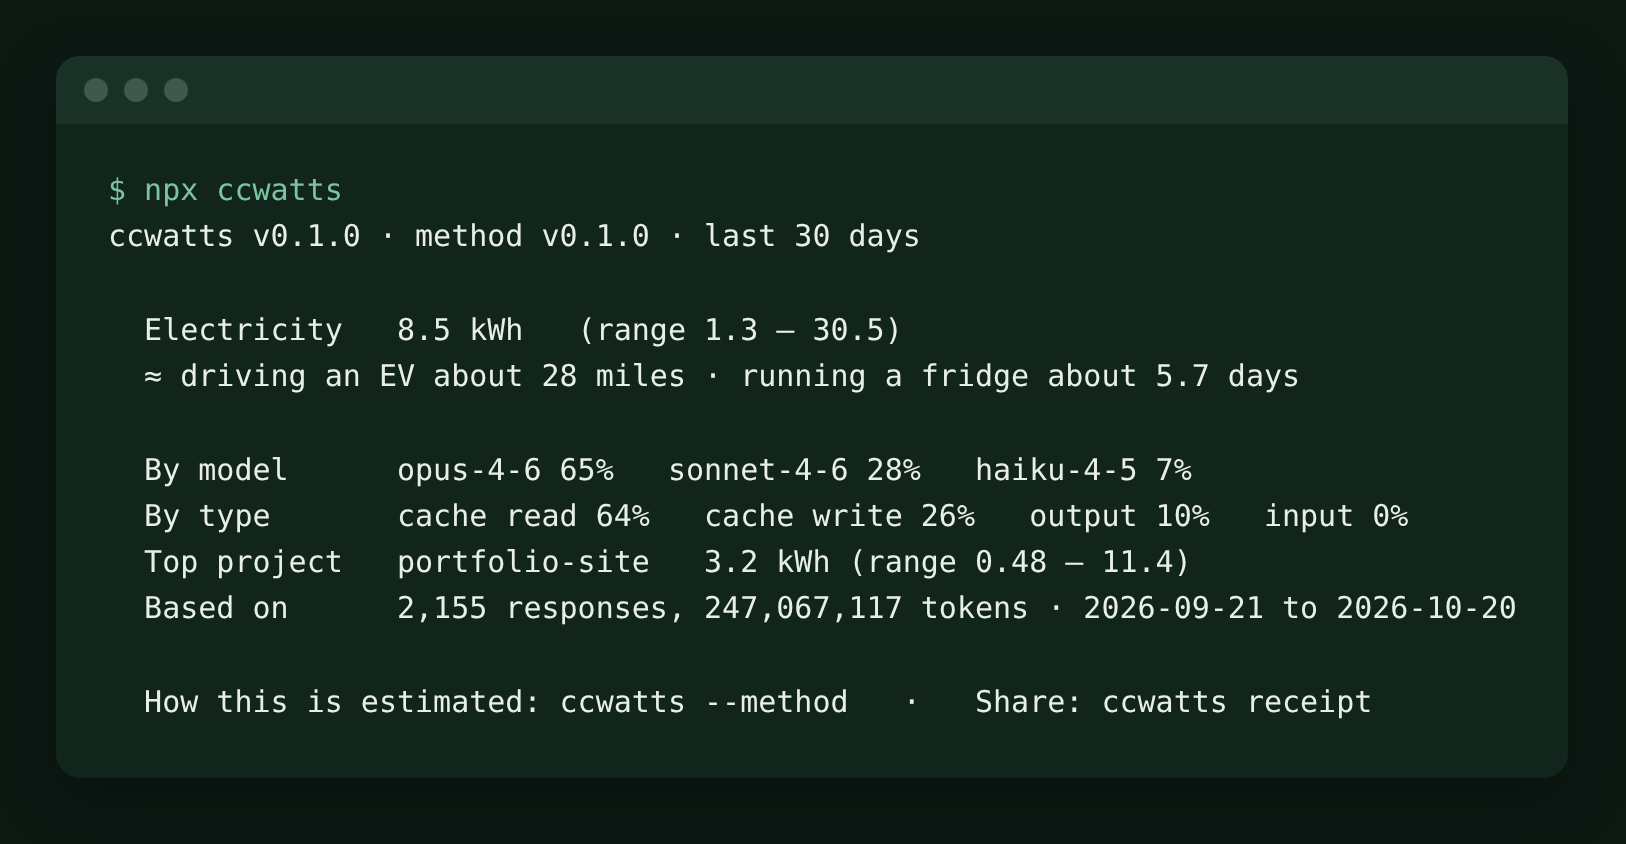
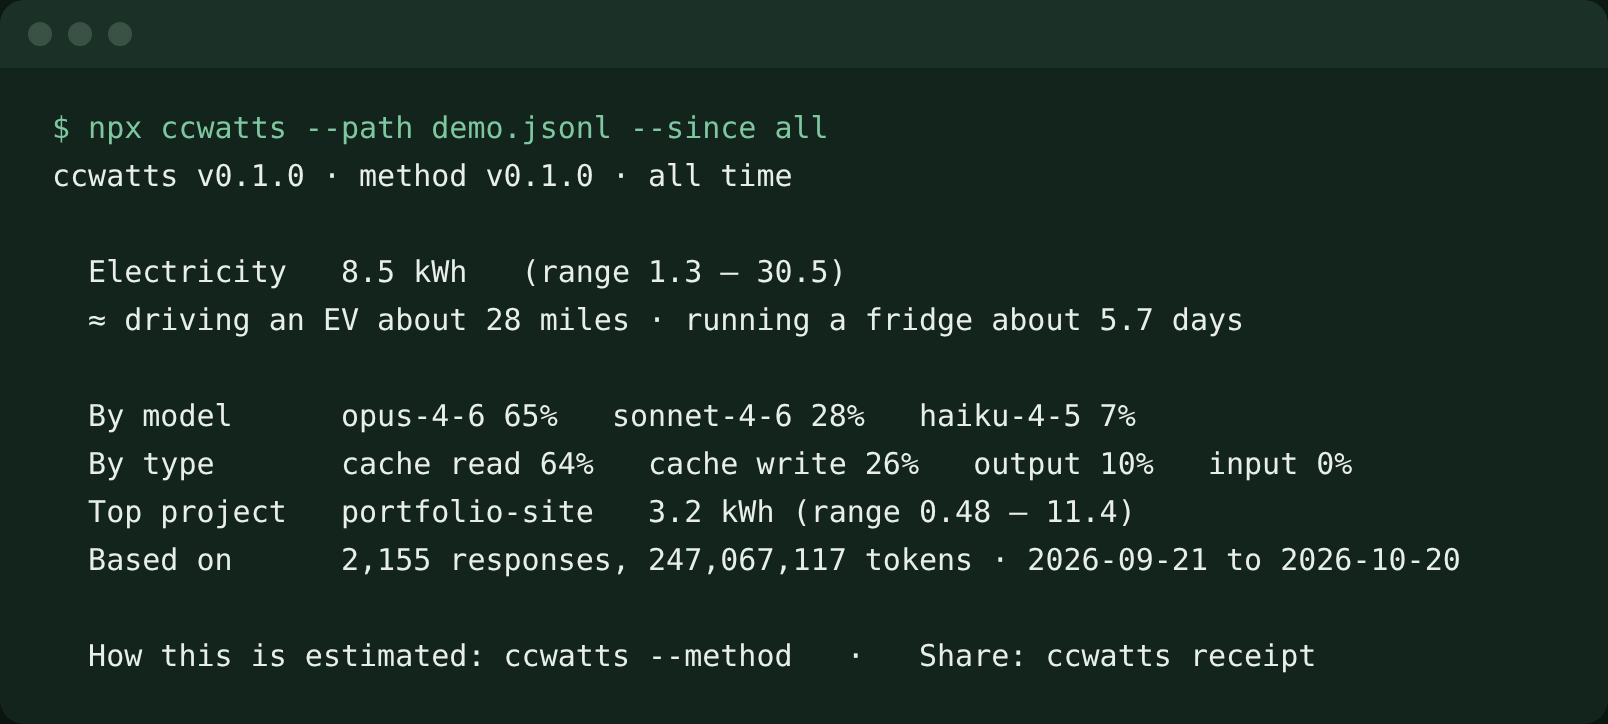
M2.2: README opens with a terminal GIF of the real CLI on demo data
scripts/make-readme-gif.mjs records docs/images/cli-demo.gif from the CLI's
actual output on the synthetic fixture (Playwright + ffmpeg, run by hand) and
refreshes the still cli-summary.png. README test checks the GIF is linked.

Claude-Session: https://claude.ai/code/session_01LvKamuVZtTCkcLRT5ptMVS

diff --git a/packages/web/test/readme.test.ts b/packages/web/test/readme.test.ts
@@ -1,4 +1,4 @@
-import { readFileSync } from "node:fs";
+import { existsSync, readFileSync } from "node:fs";
 import { describe, expect, it } from "vitest";
 import { PLAYGROUND_URL } from "@ccwatts/core";
 
@@ -18,5 +18,10 @@ describe("README tells the same story as the playground (recruiter-ready RR-7, R
   it("shows the playground on sample data, not a dashboard that reads as real history", () => {
     expect(readme).not.toContain("docs/images/dashboard.png");
     expect(readme).toContain("docs/images/playground-laptop.png");
+  });
+
+  it("opens with the terminal recording, and the file is there (M2.2)", () => {
+    expect(readme.split("\n").slice(0, 10).join("\n")).toContain("docs/images/cli-demo.gif");
+    expect(existsSync(new URL("../../../docs/images/cli-demo.gif", import.meta.url))).toBe(true);
   });
 });

diff --git a/HANDOFF.md b/HANDOFF.md
@@ -30,6 +30,7 @@ _Updated 2026-10-21._
 - **Demo data:** the playground opens on labeled synthetic sample data. Visitors can pick their own `.jsonl` files, which are parsed in the browser and never uploaded.
 - **Studio-wide status** (portfolio, domain, every demo, what's waiting on Chase): https://github.com/holroydchase-afk/pm-tools/blob/main/STUDIO-STATUS.md
 - 2026-10-21: the portfolio home page lists ccwatts under "Since Jan 2026: independent product work" with a "Live playground" tag.
+- 2026-10-22: README's top image is now a terminal GIF (`docs/images/cli-demo.gif`); `cli-summary.png` was re-shot from the same run if the portfolio wants a still.
 - 2026-10-22: playground gains an H1 ("How much electricity does your AI coding use?"), a lede, and a "← Chase Holroyd's portfolio" link to https://chaseholroyd.com/ccwatts.html. Portfolio fix for `npx ccwatts` (RR-2) sent as an INTAKE block for Product Studio.
 - 2026-10-22: README now links the live playground near the top, and its screenshots show the current playground on sample data (new H1 and back link). If the portfolio reuses README images, use `docs/images/playground-laptop.png` / `playground-phone.png`.
 - **Keep in sync:** when a change here alters what the portfolio page or demo shows (features, numbers, screenshots, privacy claims), tell the portfolio thread ("Portfolio research and upgrade plan") or update the page in `holroydchase-afk.github.io` (`tools/build.py`). Any portfolio change that touches this product adds a dated line here.
@@ -37,6 +38,7 @@ _Updated 2026-10-21._
 ## Done
 - 2026-10-22: PR #18 (M2.2 prep, CLI installable) merged after a main merge; 64 tests, typecheck and build pass, and a packed tarball installs and runs in an empty project with an empty HOME.
 - 2026-10-22: Recruiter-ready stack merged to main in order (#22 to #29, merge commits; tests and typecheck passed at every step and on main, 62 tests). Stale PR #2 (old CLAUDE.md rules) closed. Pages deploy of #29 started 18:30 UTC.
+- 2026-10-22: M2.2 README GIF: the README now opens with `docs/images/cli-demo.gif`, an 8-second terminal recording of the real CLI on the demo fixture (`npx ccwatts --path demo.jsonl --since all`). `scripts/make-readme-gif.mjs` re-records it (Playwright + ffmpeg, run by hand) and refreshes the still `docs/images/cli-summary.png` (no longer in the README; kept for the portfolio). `readme.test.ts` checks the GIF is linked near the top and exists.
 - 2026-10-22: Round 2 (RR-15 to RR-19): lede follows the data source, post says "I estimated" and only calls a 50%+ cache share a surprise, ranges pick kWh from the high bound, method labels explained, and `docs/images/receipt-sample.png` is now the labeled sample card (new `scripts/make-readme-images.mjs` re-shoots all three README playground images).
 - 2026-10-22: RR-7, RR-14: README links the live playground in its second paragraph, says `npx ccwatts` works once it's on npm, and its screenshots are the current playground on sample data (`docs/images/playground-laptop.png` replaces `dashboard.png`; `playground-phone.png` re-shot). `packages/web/test/readme.test.ts` guards all three.
 - 2026-10-22: RR-10, RR-11, RR-13: method-table source links name their site (e.g. theclimatebrink.com) and are 44px tall; under 600px the table becomes one card per parameter (no sideways scroll); phones see "On a phone? Claude Code keeps its logs on your computer…" under the pickers. All three are in `check:browser`.
@@ -69,7 +71,7 @@ All of M1.1 to M1.8 (old S1 to S7 plus the README; PRs #1, #3 to #10) and the Pa
 
 ## In progress
 - M2.2 ship prep (everything except the npm publish). Done so far: fixed a packaging bug (the CLI listed the unpublished `@ccwatts/core` as a runtime dependency, so `npm install` of the tarball failed with a 404; it is bundled anyway, so it is now a devDependency), added a test that the CLI has no runtime dependencies, and ran a clean install of `npm pack` output into an empty project with an empty HOME: install took under a second, the summary and `dashboard` worked on the demo fixture.
-- Still to do in M2.2: README install GIF, then `npm publish` once the name is final.
+- Still to do in M2.2: `npm publish` on Chase's go (needs his npm login). The README GIF is done (PR for branch `claude/project-thread-giqcv1`).
 
 ## Exact next step
 - Recruiter-ready stack is merged. Chase: paste the RR-2 INTAKE (in `docs/reviews/2026-10-22-recruiter-ready.md`) into Product Studio if not done.

diff --git a/README.md b/README.md
@@ -4,9 +4,9 @@
 
 **[Try it in your browser](https://chaseholroyd.com/ccwatts/)**: it opens on sample data, needs no install or sign-in, and your own logs never leave the page.
 
-![ccwatts summary in the terminal](docs/images/cli-summary.png)
+![ccwatts running in a terminal on sample data: one command prints an electricity range, an everyday comparison and the split by model, token type and project](docs/images/cli-demo.gif)
 
-> Screenshots use synthetic sample data (`fixtures/claude-code/demo.jsonl`), not anyone's real usage. The `npx ccwatts` command shown works once ccwatts is on npm; until then, run it from a clone (see [Try it](#try-it)).
+> Screenshots and the terminal recording use synthetic sample data (`fixtures/claude-code/demo.jsonl`), not anyone's real usage. The output is the real CLI's. The `npx ccwatts` command shown works once ccwatts is on npm; until then, run it from a clone (see [Try it](#try-it)).
 
 ## Why it exists
 
@@ -47,7 +47,7 @@ Output tokens cost the most. Fresh input costs less, and **cache reads** (the ag
 
 ## Try it
 
-Not on npm yet, because the name isn't final. From a clone:
+Not on npm yet. From a clone:
 
 ```
 npm install
